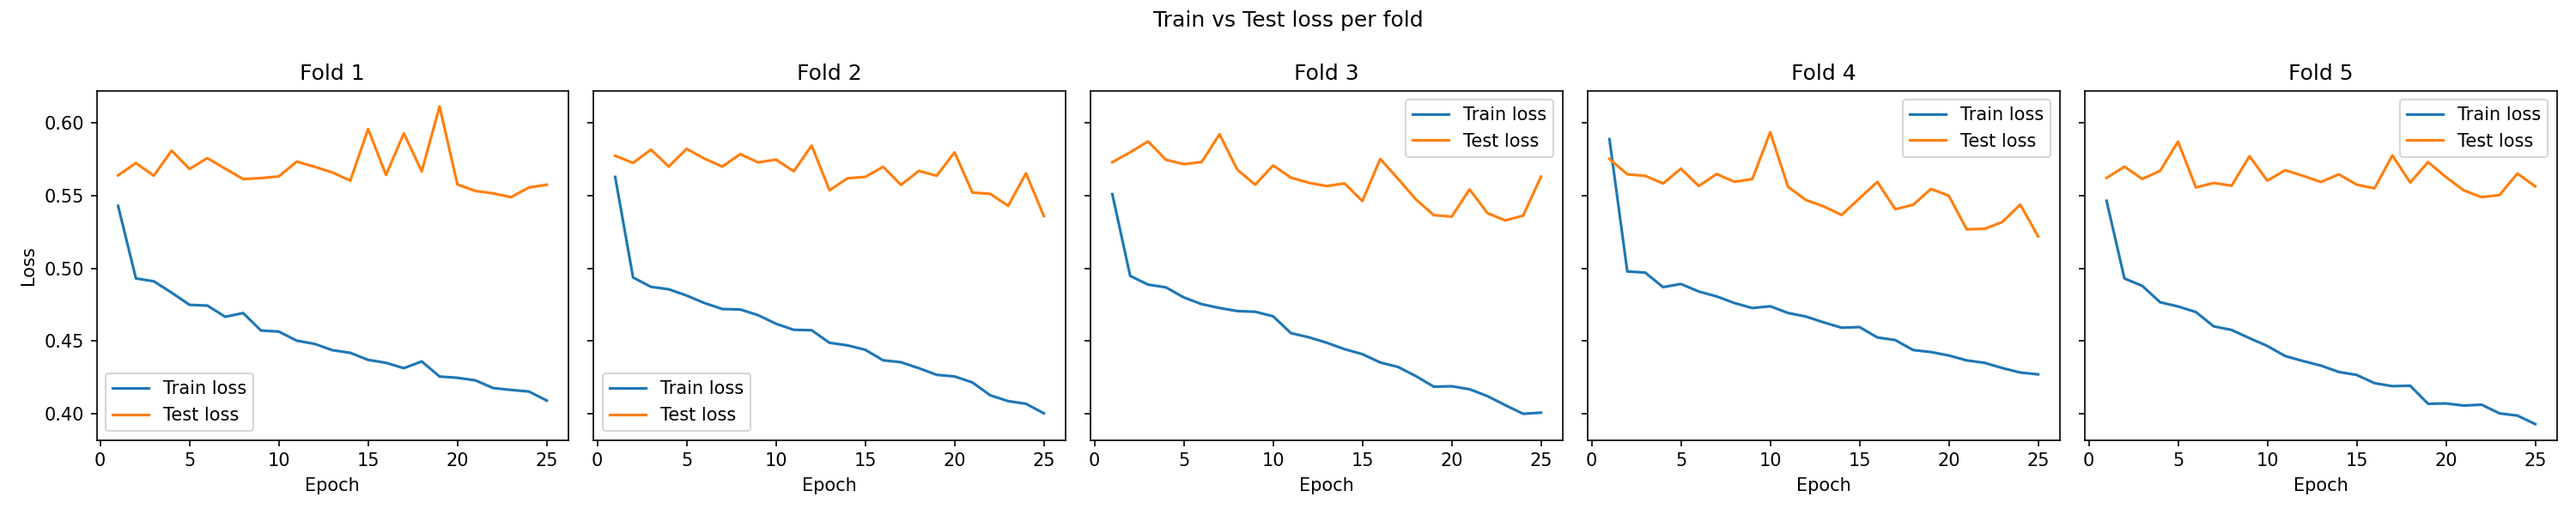
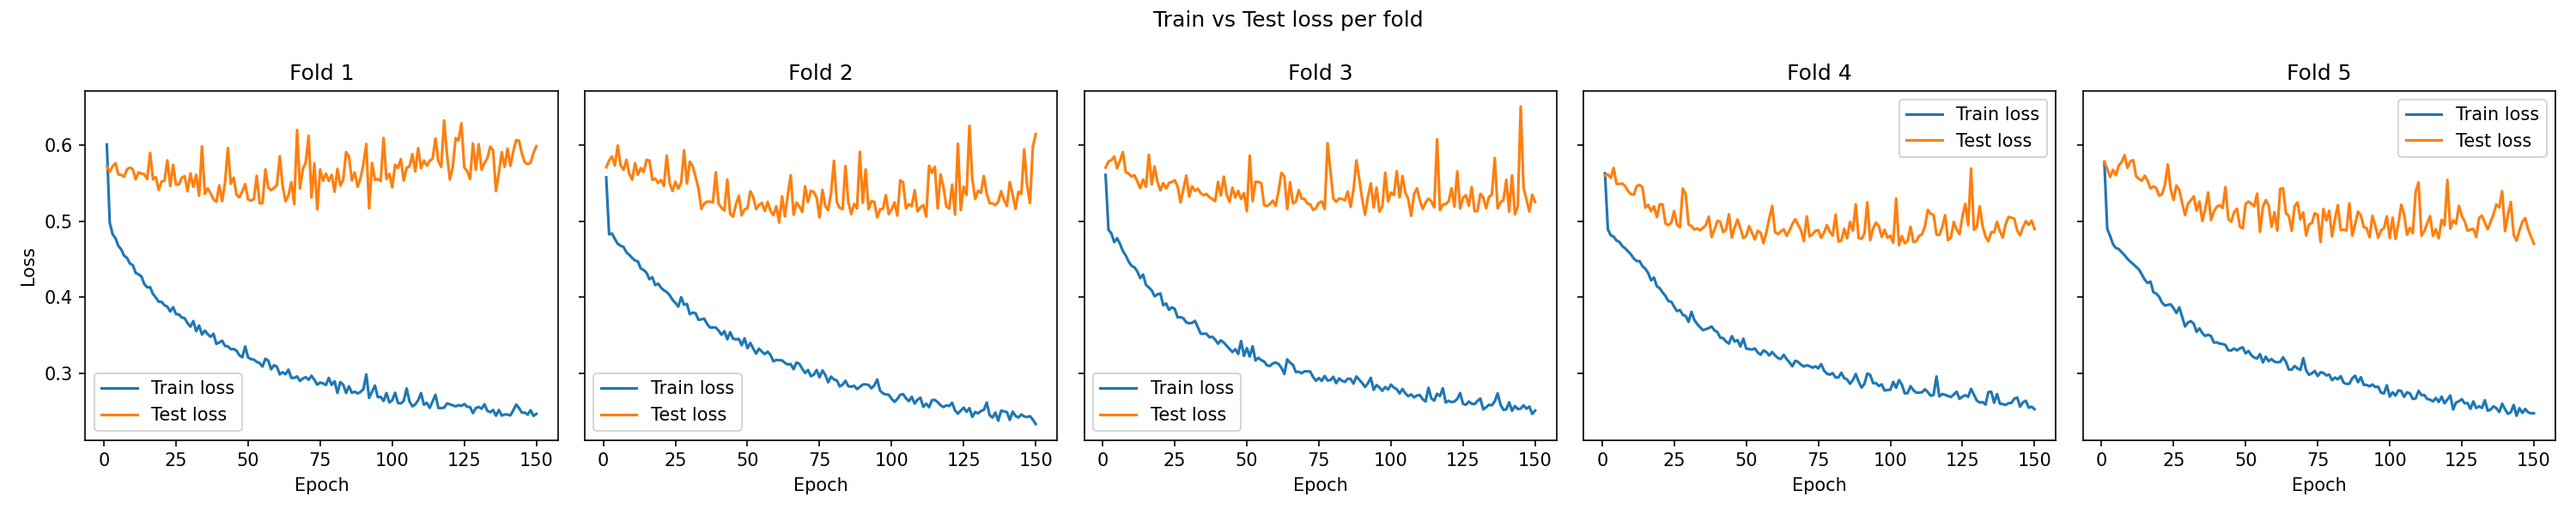
Added batchnorm

diff --git a/src/biodeg/model.py b/src/biodeg/model.py
@@ -9,7 +9,10 @@ class GCN(torch.nn.Module):
     def __init__(self, in_channels=7, hidden=64):
         super().__init__()
         self.conv1 = GCNConv(in_channels, hidden)
+        self.bn1 = torch.nn.BatchNorm1d(hidden)
         self.conv2 = GCNConv(hidden, hidden)
+        self.bn2 = torch.nn.BatchNorm1d(hidden)
+        self.dropout = torch.nn.Dropout(0.3)
         self.head = torch.nn.Linear(hidden, 2)
 
 
@@ -17,4 +20,5 @@ class GCN(torch.nn.Module):
         x = F.relu(self.conv1(x, edge_index))
         x = F.relu(self.conv2(x, edge_index))
         x = global_mean_pool(x, batch)
+        x = self.dropout(x)
         return self.head(x)

diff --git a/scripts/run_gnn.py b/scripts/run_gnn.py
@@ -13,7 +13,7 @@ from src.biodeg.model import GCN
 from download_data import load_curated_datasets
 from preprocess import skf_class_fixed_testset
 
-EPOCHS = 50
+EPOCHS = 150
 LR = 1e-3
 BATCH = 32
 SEED = 42
